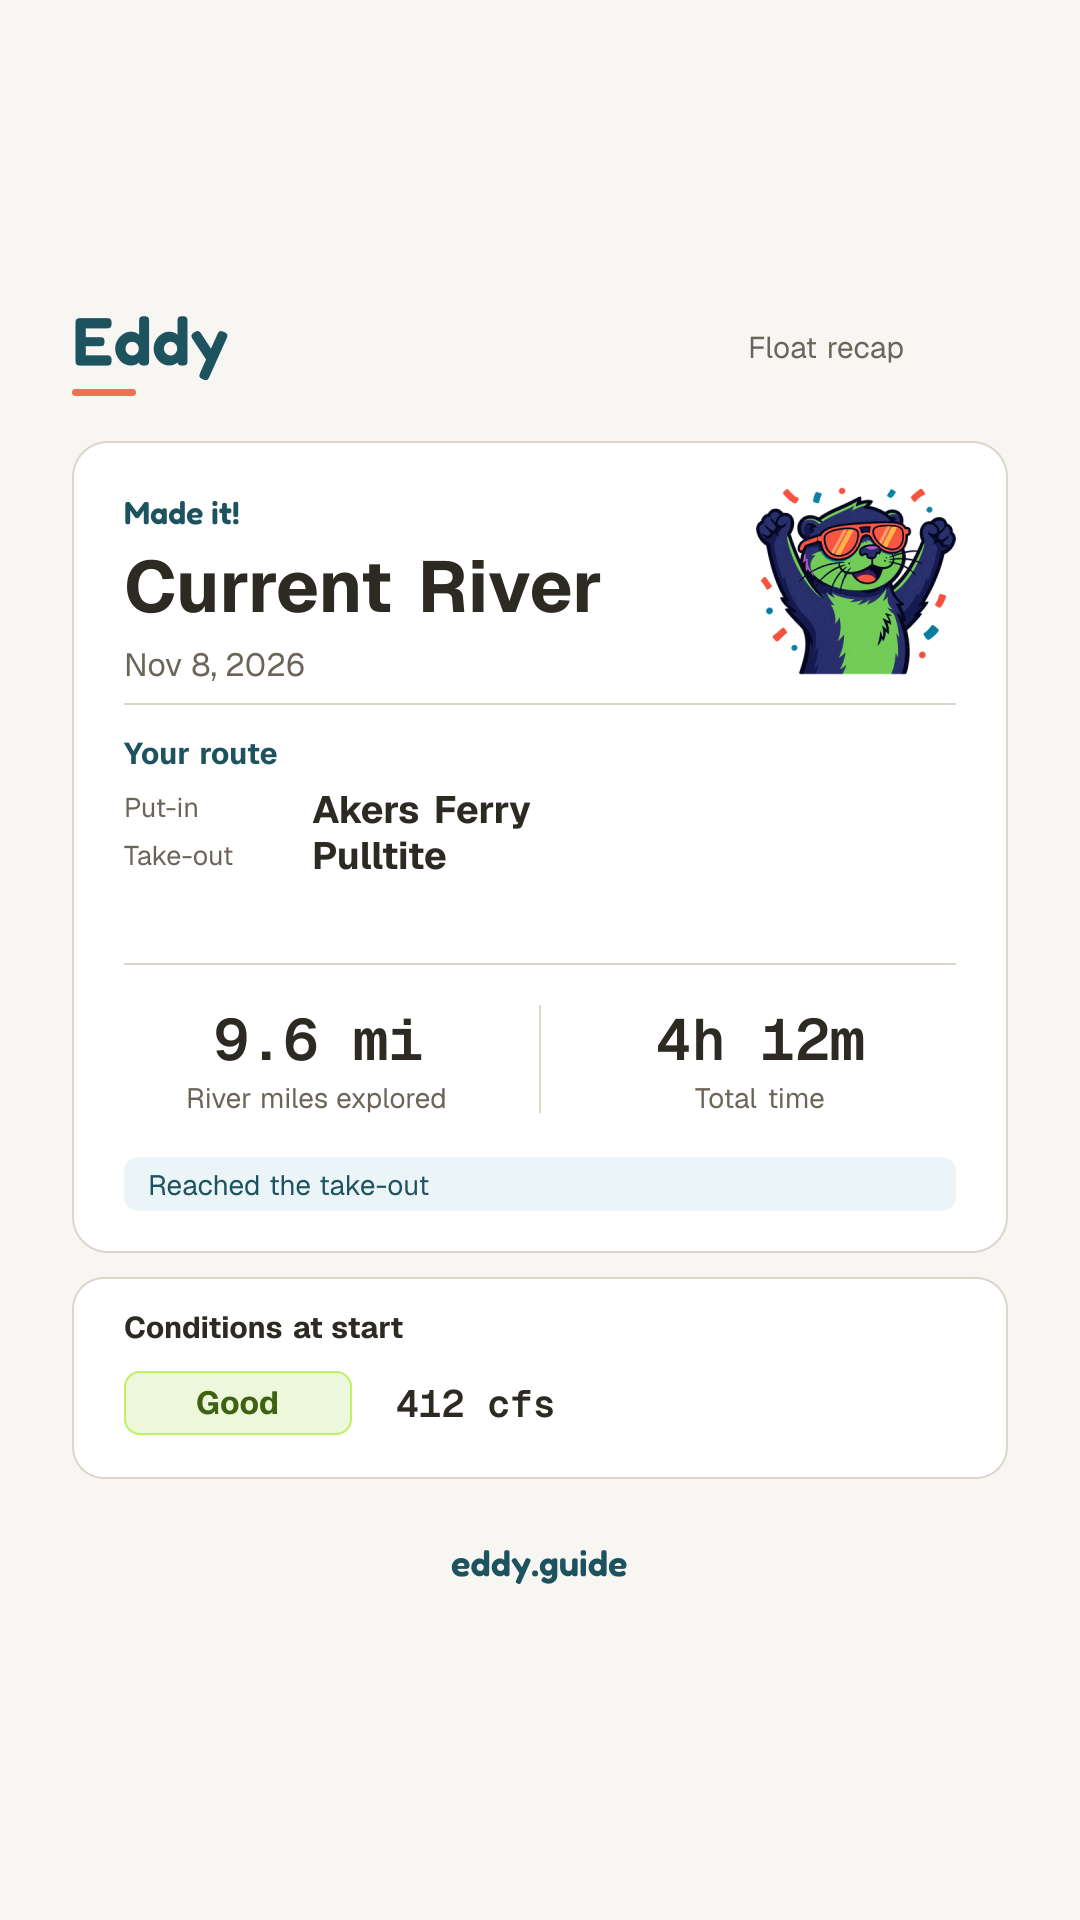
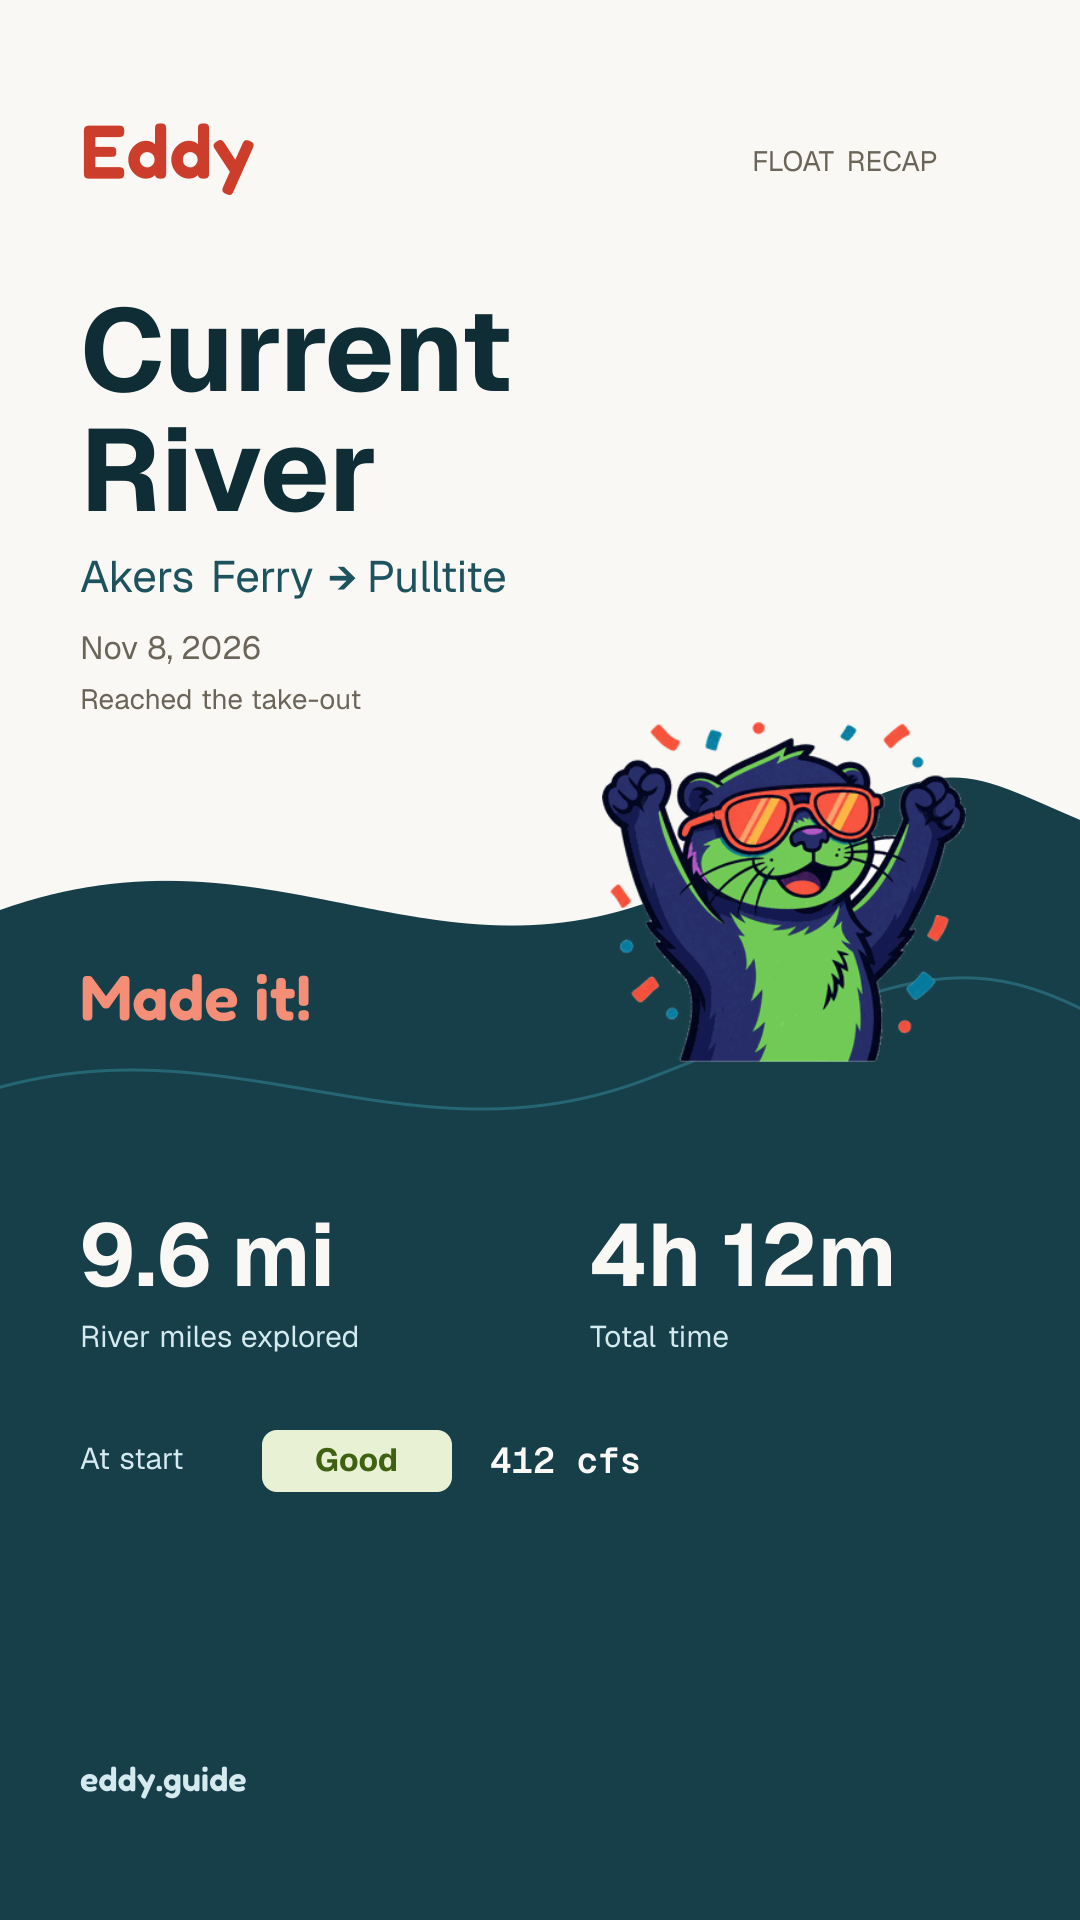
Give float shares a photo-free river postcard layout

diff --git a/missouri-float-planner/shared/float-share-layout.ts b/missouri-float-planner/shared/float-share-layout.ts
@@ -7,6 +7,7 @@ export const FLOAT_SHARE_WIDTH = 1080;
 export const FLOAT_SHARE_HEIGHT = 1920;
 export type ShareFace = 'display' | 'heading' | 'body' | 'mono';
 export type ShareElement =
+  | { kind: 'path'; d: string; fill: string; stroke?: string; strokeWidth?: number }
   | { kind: 'box'; x: number; y: number; width: number; height: number; fill: string; radius: number; border?: string }
   | { kind: 'text'; x: number; y: number; width: number; size: number; face: ShareFace; color: string; text: string; center?: boolean };
 
@@ -42,74 +43,62 @@ export function floatShareLayout(input: {
   moodLabel?: string | null; cautious?: boolean;
   condition?: { code: Exclude<ConditionCode, 'unknown'>; cfs: number | null } | null;
 }) {
-  const ink = colors.neutral[900], muted = colors.neutral[600], teal = colors.primary[700];
+  const ink = colors.primary[900], muted = colors.neutral[600];
+  const paper = colors.secondary[50], water = colors.primary[800], onWater = colors.primary[100];
   const elements: ShareElement[] = [];
   const box = (x: number, y: number, width: number, height: number, fill: string, radius = 0, border?: string) =>
     elements.push({ kind: 'box', x, y, width, height, fill, radius, border });
   const text = (value: string, x: number, y: number, width: number, size: number, face: ShareFace = 'body', color: string = ink, center = false) =>
     elements.push({ kind: 'text', text: value, x, y, width, size, face, color, center });
-  const river = shareTextLines(input.river, 18, 3);
-  const from = shareTextLines(input.from, 32, 2), to = shareTextLines(input.to, 32, 2);
-  const titleSize = river.length > 2 ? 60 : 72;
-  const titleHeight = river.length * (titleSize + 10);
-  const routeTop = 180 + titleHeight;
-  const toTop = routeTop + 82 + from.length * 48;
-  const statsTop = toTop + 82 + to.length * 48;
-  const statusTop = statsTop + 202;
-  const cardHeight = statusTop + (input.tracking ? 130 : 88);
-  const conditionHeight = input.condition ? 226 : 0;
-  // Center the complete composition in the story-safe area. Missing conditions
-  // leave no empty card; longer place names consume the available space.
-  const stackHeight = cardHeight + conditionHeight;
-  const cardTop = Math.max(250, Math.round((1920 - stackHeight) / 2));
-  const left = 72, width = 936, inset = 124;
+  const path = (d: string, fill: string, stroke?: string, strokeWidth?: number) =>
+    elements.push({ kind: 'path', d, fill, stroke, strokeWidth });
+  const river = shareTextLines(input.river, 12, 3);
+  const titleSize = river.length === 3 ? 94 : 116;
+  const titleHeight = river.length * (titleSize + 4);
+  const route = shareTextLines(`${input.from} → ${input.to}`, 38, 3);
+  const routeSize = route.length > 1 ? 38 : 44;
+  const routeTop = 280 + titleHeight + 30;
+  const dateTop = routeTop + route.length * (routeSize + 10) + 24;
+  const arrivalTop = dateTop + 54;
+  const heroTop = Math.max(800, arrivalTop + 82);
+  const statsTop = heroTop + 402;
 
-  box(0, 0, 1080, 1920, colors.neutral[50]);
-  text('Eddy', left, cardTop - 142, 300, 68, 'display', teal);
-  text('Float recap', 748, cardTop - 112, 260, 30, 'body', muted);
-  box(left, cardTop - 52, 64, 7, colors.accent[500], 3);
-  box(left, cardTop, width, cardHeight, '#FFFFFF', 36, colors.neutral[200]);
-  text(input.moodLabel ?? 'Your float', inset, cardTop + 52, 600, 32, 'display', input.cautious ? muted : teal);
-  river.forEach((line, i) => text(line, inset, cardTop + 102 + i * (titleSize + 10), 612, titleSize, 'heading'));
-  text(shareDate(input.date), inset, cardTop + 122 + titleHeight, 600, 32, 'body', muted);
-  // The standard PNG has more transparent padding than the mood stickers.
+  box(0, 0, 1080, 1920, paper);
+  text('Eddy', 80, 104, 360, 76, 'display', colors.accent[700]);
+  text('FLOAT RECAP', 752, 144, 248, 28, 'body', muted);
+  river.forEach((line, i) => text(line, 80, 280 + i * (titleSize + 4), 920, titleSize, 'heading'));
+  route.forEach((line, i) => text(line, 80, routeTop + i * (routeSize + 10), 920, routeSize, 'body', colors.primary[700]));
+  text(shareDate(input.date), 80, dateTop, 920, 32, 'body', muted);
+  text(input.arrival, 80, arrivalTop, 920, 28, 'body', muted);
+
+  // A decorative water shape, never route geometry or a progress illustration.
+  path(`M0 ${heroTop + 110} C280 ${heroTop + 10} 440 ${heroTop + 210} 700 ${heroTop + 80} S940 ${heroTop - 40} 1080 ${heroTop + 20} L1080 1920 L0 1920 Z`, water);
+  path(`M-40 ${heroTop + 300} C220 ${heroTop + 205} 400 ${heroTop + 375} 650 ${heroTop + 278} S960 ${heroTop + 135} 1120 ${heroTop + 230}`, 'none', colors.primary[600], 3);
+  text(input.moodLabel ?? 'Your float', 80, heroTop + 158, 510, 64, 'display', input.cautious ? onWater : colors.accent[400]);
+  // The standard PNG carries more transparent padding than the mood stickers.
   const art = input.moodLabel
-    ? { x: 756, y: cardTop + 40, width: 200, height: 200 }
-    : { x: 726, y: cardTop + 10, width: 260, height: 260 };
+    ? { x: 602, y: heroTop - 90, width: 364, height: 364 }
+    : { x: 556, y: heroTop - 136, width: 456, height: 456 };
 
-  const y = cardTop + routeTop;
-  box(inset, y, 832, 2, colors.neutral[200]);
-  text('Your route', inset, y + 32, 832, 30, 'heading', teal);
-  // This is an endpoint list, not a geographic or progress diagram.
-  text('Put-in', inset, y + 88, 170, 27, 'body', muted);
-  from.forEach((line, i) => text(line, 312, y + 84 + i * 48, 644, 38, 'heading'));
-  text('Take-out', inset, cardTop + toTop + 6, 170, 27, 'body', muted);
-  to.forEach((line, i) => text(line, 312, cardTop + toTop + i * 48, 644, 38, 'heading'));
-
-  const statsY = cardTop + statsTop;
-  box(inset, statsY, 832, 2, colors.neutral[200]);
-  box(539, statsY + 42, 2, 108, colors.neutral[200]);
-  const statSize = Math.max(input.distance?.length ?? 1, input.duration.length) > 10 ? 42 : 58;
+  const statSize = Math.max(input.distance?.length ?? 1, input.duration.length) > 10 ? 56 : 88;
   const stat = (value: string, label: string, x: number) => {
-    text(value, x, statsY + 42, 390, statSize, 'mono', ink, true);
-    text(label, x, statsY + 118, 390, 28, 'body', muted, true);
+    text(value, x, statsTop, 430, statSize, 'heading', paper);
+    text(label, x, statsTop + (statSize === 56 ? 84 : 116), 430, 30, 'body', onWater);
   };
-  stat(input.distance ?? '—', input.distanceLabel, inset);
-  stat(input.duration, 'Total time', 566);
-  const statusY = cardTop + statusTop;
-  box(inset, statusY - 8, 832, input.tracking ? 96 : 54, colors.primary[50], 14);
-  text(input.arrival, inset + 24, statusY + 3, 784, 28, 'body', teal);
-  if (input.tracking) text(input.tracking, inset + 24, statusY + 43, 784, 27, 'body', muted);
+  stat(input.distance ?? '—', input.distanceLabel, 80);
+  stat(input.duration, 'Total time', 590);
+  if (input.tracking) text(input.tracking, 80, statsTop + 192, 920, 30, 'body', onWater);
 
   if (input.condition) {
     const condition = CONDITION_SYSTEM[input.condition.code];
-    const conditionY = cardTop + cardHeight + 24;
-    box(left, conditionY, width, 202, '#FFFFFF', 32, colors.neutral[200]);
-    text('Conditions at start', inset, conditionY + 32, 832, 30, 'heading');
-    box(inset, conditionY + 94, 228, 64, condition.bg, 16, condition.chipBorder);
-    text(condition.label, inset + 10, conditionY + 106, 208, 32, 'heading', condition.ink, true);
-    if (input.condition.cfs != null) text(`${input.condition.cfs.toLocaleString('en-US')} cfs`, 396, conditionY + 104, 560, 38, 'mono');
+    const conditionTop = statsTop + (input.tracking ? 264 : 228);
+    text('At start', 80, conditionTop + 10, 170, 30, 'body', onWater);
+    // A white backing keeps the canonical translucent condition tint legible.
+    box(262, conditionTop, 190, 62, paper, 15);
+    box(262, conditionTop, 190, 62, condition.bg, 15);
+    text(condition.label, 272, conditionTop + 10, 170, 32, 'heading', condition.ink, true);
+    if (input.condition.cfs != null) text(`${input.condition.cfs.toLocaleString('en-US')} cfs`, 490, conditionTop + 9, 510, 36, 'mono', paper);
   }
-  text('eddy.guide', 72, cardTop + stackHeight + 62, 936, 36, 'display', teal, true);
+  text('eddy.guide', 80, 1758, 920, 34, 'display', onWater);
   return { elements, art };
 }

diff --git a/eddy-ios/src/float/LocalFloatShareImage.tsx b/eddy-ios/src/float/LocalFloatShareImage.tsx
@@ -1,6 +1,6 @@
 import { useEffect, useRef, useState } from 'react';
 import { StyleSheet, View } from 'react-native';
-import Svg, { Image, Rect, Text as SvgText } from 'react-native-svg';
+import Svg, { Image, Path, Rect, Text as SvgText } from 'react-native-svg';
 import type { CompletedFloat } from '@eddy/conditions/float-archive';
 import { compactShareDuration, floatShareLayout } from '@eddy/conditions/float-share-layout';
 import { localFloatShare } from '@/lib/localFloatShare';
@@ -40,6 +40,7 @@ function LocalFloatShareImage({ trip, ready, failed }: {
       {layout.elements.map((item, i) => item.kind === 'box'
         ? <Rect key={i} x={item.x} y={item.y} width={item.width} height={item.height} rx={item.radius}
           fill={item.fill} stroke={item.border} strokeWidth={item.border ? 2 : 0} />
+        : item.kind === 'path' ? <Path key={i} d={item.d} fill={item.fill} stroke={item.stroke} strokeWidth={item.strokeWidth} />
         : <SvgText key={i} x={item.center ? item.x + item.width / 2 : item.x} y={item.y + item.size * 0.96}
           fill={item.color} fontFamily={faces[item.face]} fontSize={item.size}
           textAnchor={item.center ? 'middle' : 'start'}>{item.text}</SvgText>)}

diff --git a/missouri-float-planner/shared/float-share.test.ts b/missouri-float-planner/shared/float-share.test.ts
@@ -347,7 +347,7 @@ test('high water is stated on the image, not celebrated', () => {
   };
   // The colour of the element holding the mood line itself, not the wordmark.
   const labelColor = (html: string, text: string) => new RegExp(`color:([^;"]+)[^>]*>${text}<`).exec(html)?.[1];
-  assert.equal(labelColor(draw(trip({ startCondition: { ...flowing, code: 'dangerous' } })), 'Flood stage'), colors.neutral[600]);
-  assert.equal(labelColor(draw(trip({ startCondition: { ...flowing, code: 'high' } })), 'Big water'), colors.neutral[600]);
-  assert.equal(labelColor(draw(trip({ startCondition: flowing })), 'Made it!'), colors.primary[700], 'Made it! uses the recap’s teal');
+  assert.equal(labelColor(draw(trip({ startCondition: { ...flowing, code: 'dangerous' } })), 'Flood stage'), colors.primary[100]);
+  assert.equal(labelColor(draw(trip({ startCondition: { ...flowing, code: 'high' } })), 'Big water'), colors.primary[100]);
+  assert.equal(labelColor(draw(trip({ startCondition: flowing })), 'Made it!'), colors.accent[400], 'Made it! uses coral on the water shape');
 });

diff --git a/missouri-float-planner/src/lib/og/float-share-image.tsx b/missouri-float-planner/src/lib/og/float-share-image.tsx
@@ -40,7 +40,10 @@ export function FloatShareImage({ state, names, mood, sticker }: {
       display: 'flex', position: 'absolute', left: item.x, top: item.y,
       width: item.width, height: item.height, background: item.fill, borderRadius: item.radius,
       ...(item.border ? { border: `2px solid ${item.border}` } : {}),
-    }} /> : <div key={i} style={{
+    }} /> : item.kind === 'path' ? <svg key={i} width={FLOAT_SHARE_WIDTH} height={FLOAT_SHARE_HEIGHT}
+      viewBox="0 0 1080 1920" style={{ position: 'absolute', left: 0, top: 0 }}>
+      <path d={item.d} fill={item.fill} stroke={item.stroke} strokeWidth={item.strokeWidth} />
+    </svg> : <div key={i} style={{
       display: 'flex', position: 'absolute', left: item.x, top: item.y, width: item.width,
       fontSize: item.size, lineHeight: 1.2, color: item.color, ...faces[item.face],
       justifyContent: item.center ? 'center' : 'flex-start', whiteSpace: 'nowrap',

diff --git a/missouri-float-planner/src/lib/ios-review-fixes.test.ts b/missouri-float-planner/src/lib/ios-review-fixes.test.ts
@@ -155,7 +155,7 @@ function localImageHarness() {
         pending.push(() => { previous?.cleanup?.(); effects.set(index, { deps, cleanup: fn() }); });
       },
     },
-    'react-native-svg': { __esModule: true, default: 'Svg', Image: 'Image', Line: 'Line', Rect: 'Rect', Text: 'SvgText' },
+    'react-native-svg': { __esModule: true, default: 'Svg', Image: 'Image', Path: 'Path', Line: 'Line', Rect: 'Rect', Text: 'SvgText' },
     '@/lib/localFloatShare': { localFloatShare: () => ({ river: 'Current River', from: 'Akers', to: 'Pulltite', date: '2026-11-04', duration: '1 hr' }), shareTextLines: (s: string) => [s] },
     '@eddy/conditions/float-share-layout': { compactShareDuration, floatShareLayout }, '@/theme/typography': { fonts: {} }, '../../assets/otter/standard.png': 1,
   };

diff --git a/eddy-ios/src/lib/shareImageCache.ts b/eddy-ios/src/lib/shareImageCache.ts
@@ -4,8 +4,8 @@ let generation = 0;
 export const shareImageRevision = () => generation;
 
 const MAX_AGE = 30 * 24 * 60 * 60_000;
-// Rebuild older posters after the recap-aligned presentation ships.
-const DESIGN_VERSION = 2;
+// Rebuild older posters after the river-postcard presentation ships.
+const DESIGN_VERSION = 3;
 function files(identity: string, name: string) {
   let hash = 2166136261;
   for (let i = 0; i < identity.length; i++) hash = Math.imul(hash ^ identity.charCodeAt(i), 16777619);

diff --git a/docs/decisions/0015-gauge-and-chart-sharing.md b/docs/decisions/0015-gauge-and-chart-sharing.md
@@ -189,23 +189,26 @@ layout and destination delivery still require the device gates below.
 
 ## Float share presentation — November 12, 2026
 
-The online PNG and offline SVG use one 1080 × 1920 composition from
-`shared/float-share-layout.ts`: warm paper, white cards, a small otter,
-river-first heading, aligned route and stats, and a quiet `eddy.guide` footer.
-Fredoka marks Eddy and the mood; Geist handles headings/body and Geist Mono
-handles measurements. The server embeds Latin subsets of the app’s Geist
-Regular/Bold fonts, without changing other OG images.
+Online PNGs and offline SVGs share a photo-free 1080 × 1920 river postcard
+composition from `shared/float-share-layout.ts`. It leads with a large river
+name and a compact route/date group on warm paper. Eddy overlaps a curved
+teal water shape; the mood and large trip stats sit on that surface without
+surrounding cards or table dividers. The curves are decorative, not a map or
+progress illustration. A small `eddy.guide` signature closes the image.
+Fredoka marks Eddy and the mood; Geist handles headings, summary stats and
+body copy; Geist Mono handles the flow reading. The server embeds Latin
+subsets of the app’s Geist Regular/Bold fonts without changing other OG images.
 
-The verified server condition uses a flat tinted **Conditions at start** badge
-in place of the tilted stamp. The offline image still makes no condition or
-mood claim. Long names wrap and ellipsize; absent condition data removes that
-card. Arrival and tracking qualifiers remain visible. The whole-river
+Verified server conditions appear in one compact **At start** row with the
+canonical tinted badge. The offline image still makes no condition or mood
+claim. Long names wrap and ellipsize, and absent conditions leave no empty
+panel. Arrival and tracking qualifiers remain visible. The whole-river
 percentage stays in the compatible share payload but is omitted from the
 image, where it could be mistaken for route completion. Credited miles,
 recorded distance, duration, mood gates and condition verification are unchanged.
-High-water mood text remains muted, while ordinary mood text uses teal.
+High-water mood text uses quiet pale ink on teal; ordinary moods use coral.
 
-The disposable image cache records presentation version 2; older PNGs are
+The disposable image cache records presentation version 3; older PNGs are
 rebuilt on the next share. Update the server renderer before distributing the
 app update so newly cached online images use the matching presentation.
 No new native dependency or fingerprint input is introduced. Native PNG/font

diff --git a/eddy-ios/README.md b/eddy-ios/README.md
@@ -1892,9 +1892,10 @@ divider. Share follows the trip card, ahead of the compact starting conditions;
 history, backup and the separate delete action sit below. Large text stacks the
 stat columns and endpoint names. It replaces the recap's whole-river
 exploration/lifetime panel. Existing
-history and share-image measurement rules remain unchanged. Share images use the same warm card hierarchy
-online and offline, with shared layout primitives, a smaller otter and aligned
-stats. The verified server condition is a flat badge; the offline image retains
+history and share-image measurement rules remain unchanged. Share images use one photo-free river postcard
+composition online and offline: a large river title, compact route/date group,
+Eddy overlapping a curved teal shape and large unboxed stats. The verified
+server condition is a compact badge row; the offline image retains
 its existing condition-free content. The whole-river percentage is omitted
 from the image. See [ADR 0015](../docs/decisions/0015-gauge-and-chart-sharing.md#float-share-presentation--november-12-2026).
 New summaries save

diff --git a/docs/float-history-card-plan.md b/docs/float-history-card-plan.md
@@ -541,7 +541,7 @@ moods use eight stickers, about 154 KB at 300px.
 ## Phase 5: share
 
 Presentation was updated November 12, 2026: online and offline images now use
-the recap-aligned warm card layout. The historical “stamp” below is a flat
+a photo-free river postcard layout with unboxed stats and a curved teal shape. The historical “stamp” below is a flat
 verified condition badge, and the whole-river percentage remains in the
 payload but is no longer printed. See ADR 0015’s float share presentation
 amendment for the current layout; measurement and verification rules remain.

diff --git a/docs/visuals/float-share-2026-11-12/README.md b/docs/visuals/float-share-2026-11-12/README.md
@@ -1,7 +1,9 @@
 # Float share previews — November 12, 2026
 
 Illustrative data rendered from the implementation in this PR. These are not
-recorded user trips or proof of a released build.
+recorded user trips or proof of a released build. The share uses a photo-free
+postcard composition with an oversized title, a decorative water shape, Eddy
+overlapping the curve and open stats. The curve is not a route map.
 
 - `complete.png`: server PNG, reached take-out and verified starting condition.
 - `partial.png`: server PNG, unconfirmed arrival and limited GPS tracking.
